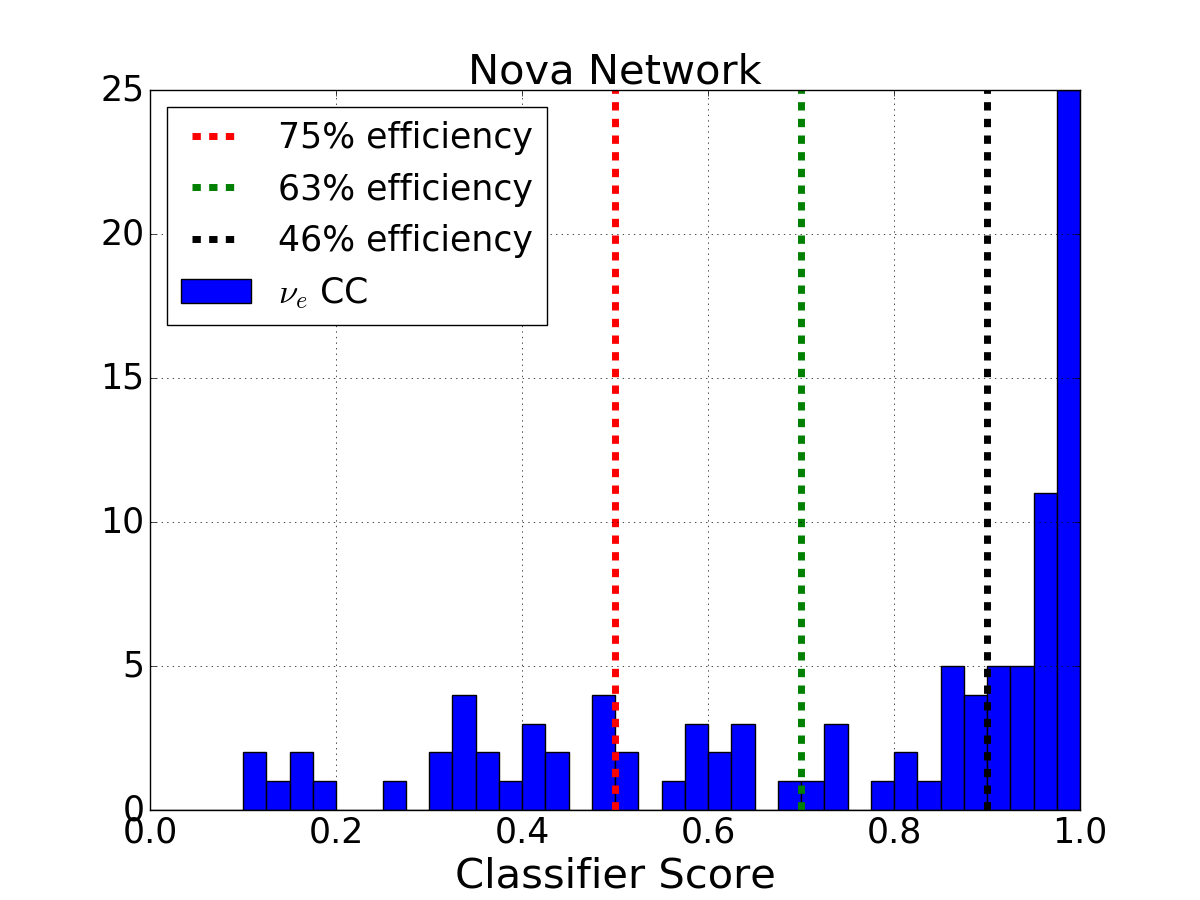
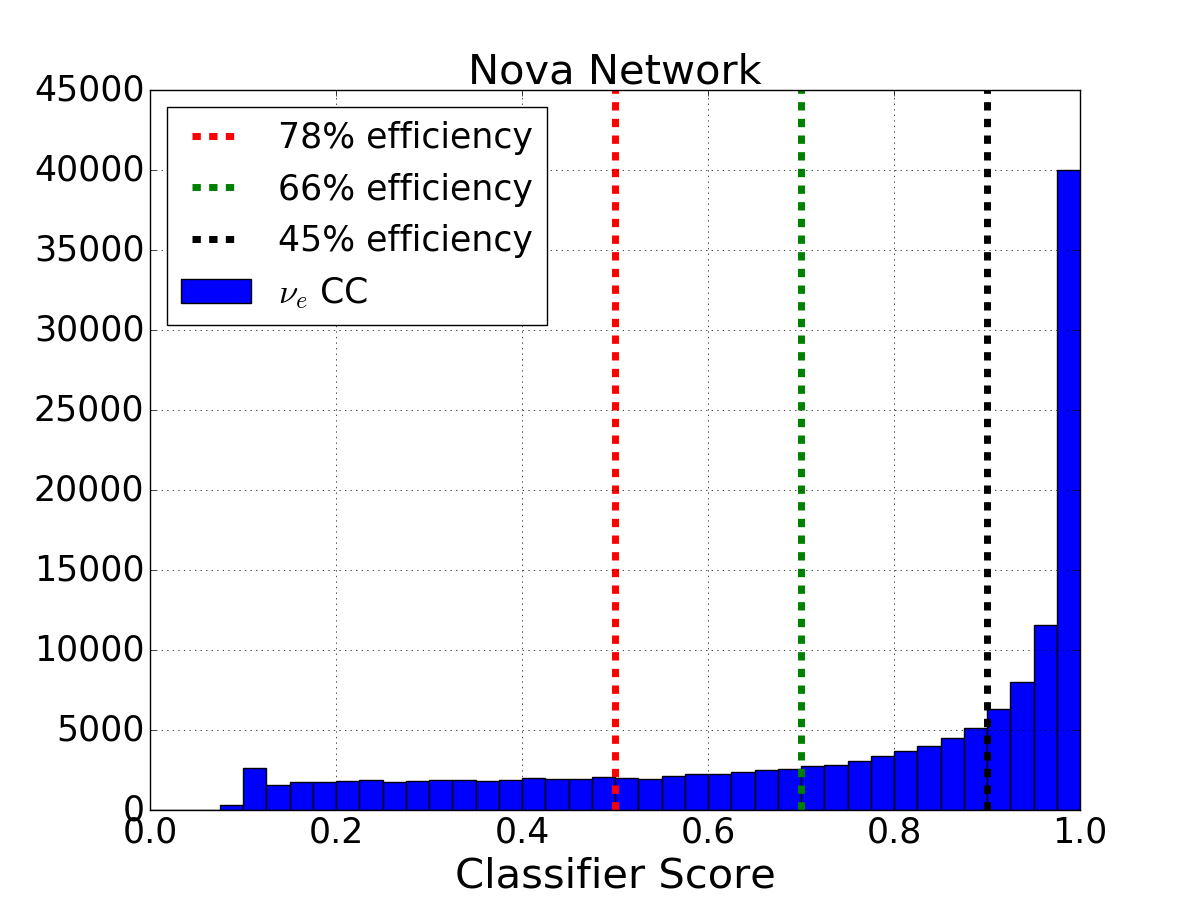
hopefully the pdf gets pushed this time.

diff --git a/nova_net/evaluatePerformance.py b/nova_net/evaluatePerformance.py
@@ -17,7 +17,7 @@ key='probt'
 
 testNet = caffe.Net(net_file,weights, caffe.TEST)
 
-n_events = 100
+n_events = 144000
 batch_size=10
 
 print_steps = n_events / (10*batch_size)
@@ -27,14 +27,14 @@ output = numpy.zeros(n_events)
 for i in xrange(n_events/batch_size):
 
     testNet.forward()
-    print testNet.blobs[key].data
+    # print testNet.blobs[key].data
     for j in xrange(batch_size):
       output[i*batch_size + j] = testNet.blobs[key].data[j][1]
 
 
 
-    if i % print_steps == 0:
-      print "On iteration {} of {}.".format(i*batch_size, n_events)
+    # if i % print_steps == 0:
+    print "On iteration {} of {}.".format(i*batch_size, n_events)
 
 # print testNet.blobs['loss3/top-1'].data
 # print testNet.blobs['loss3/top-5'].data
